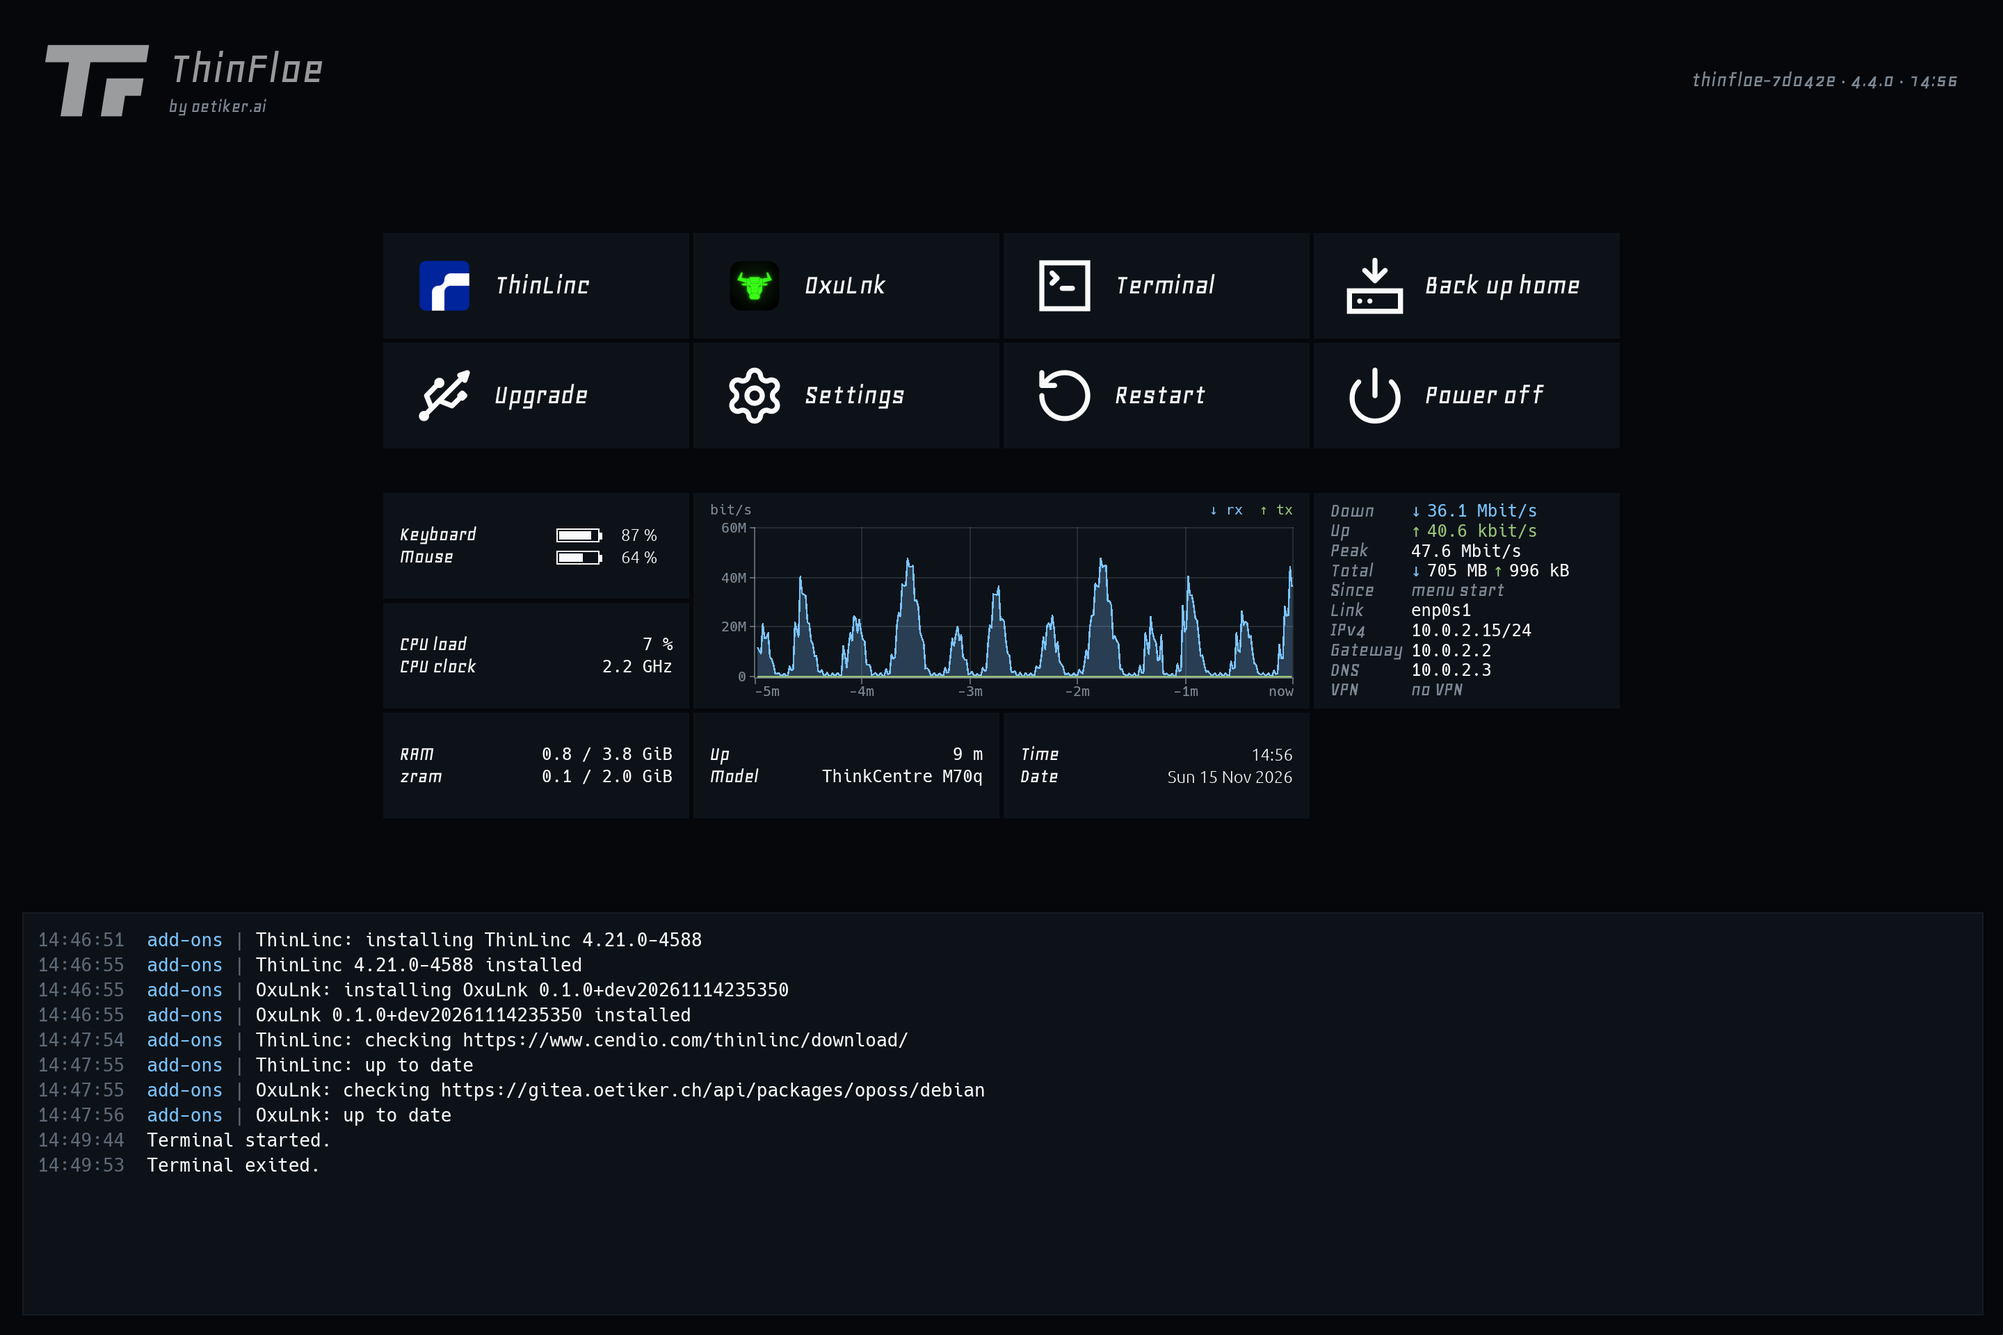
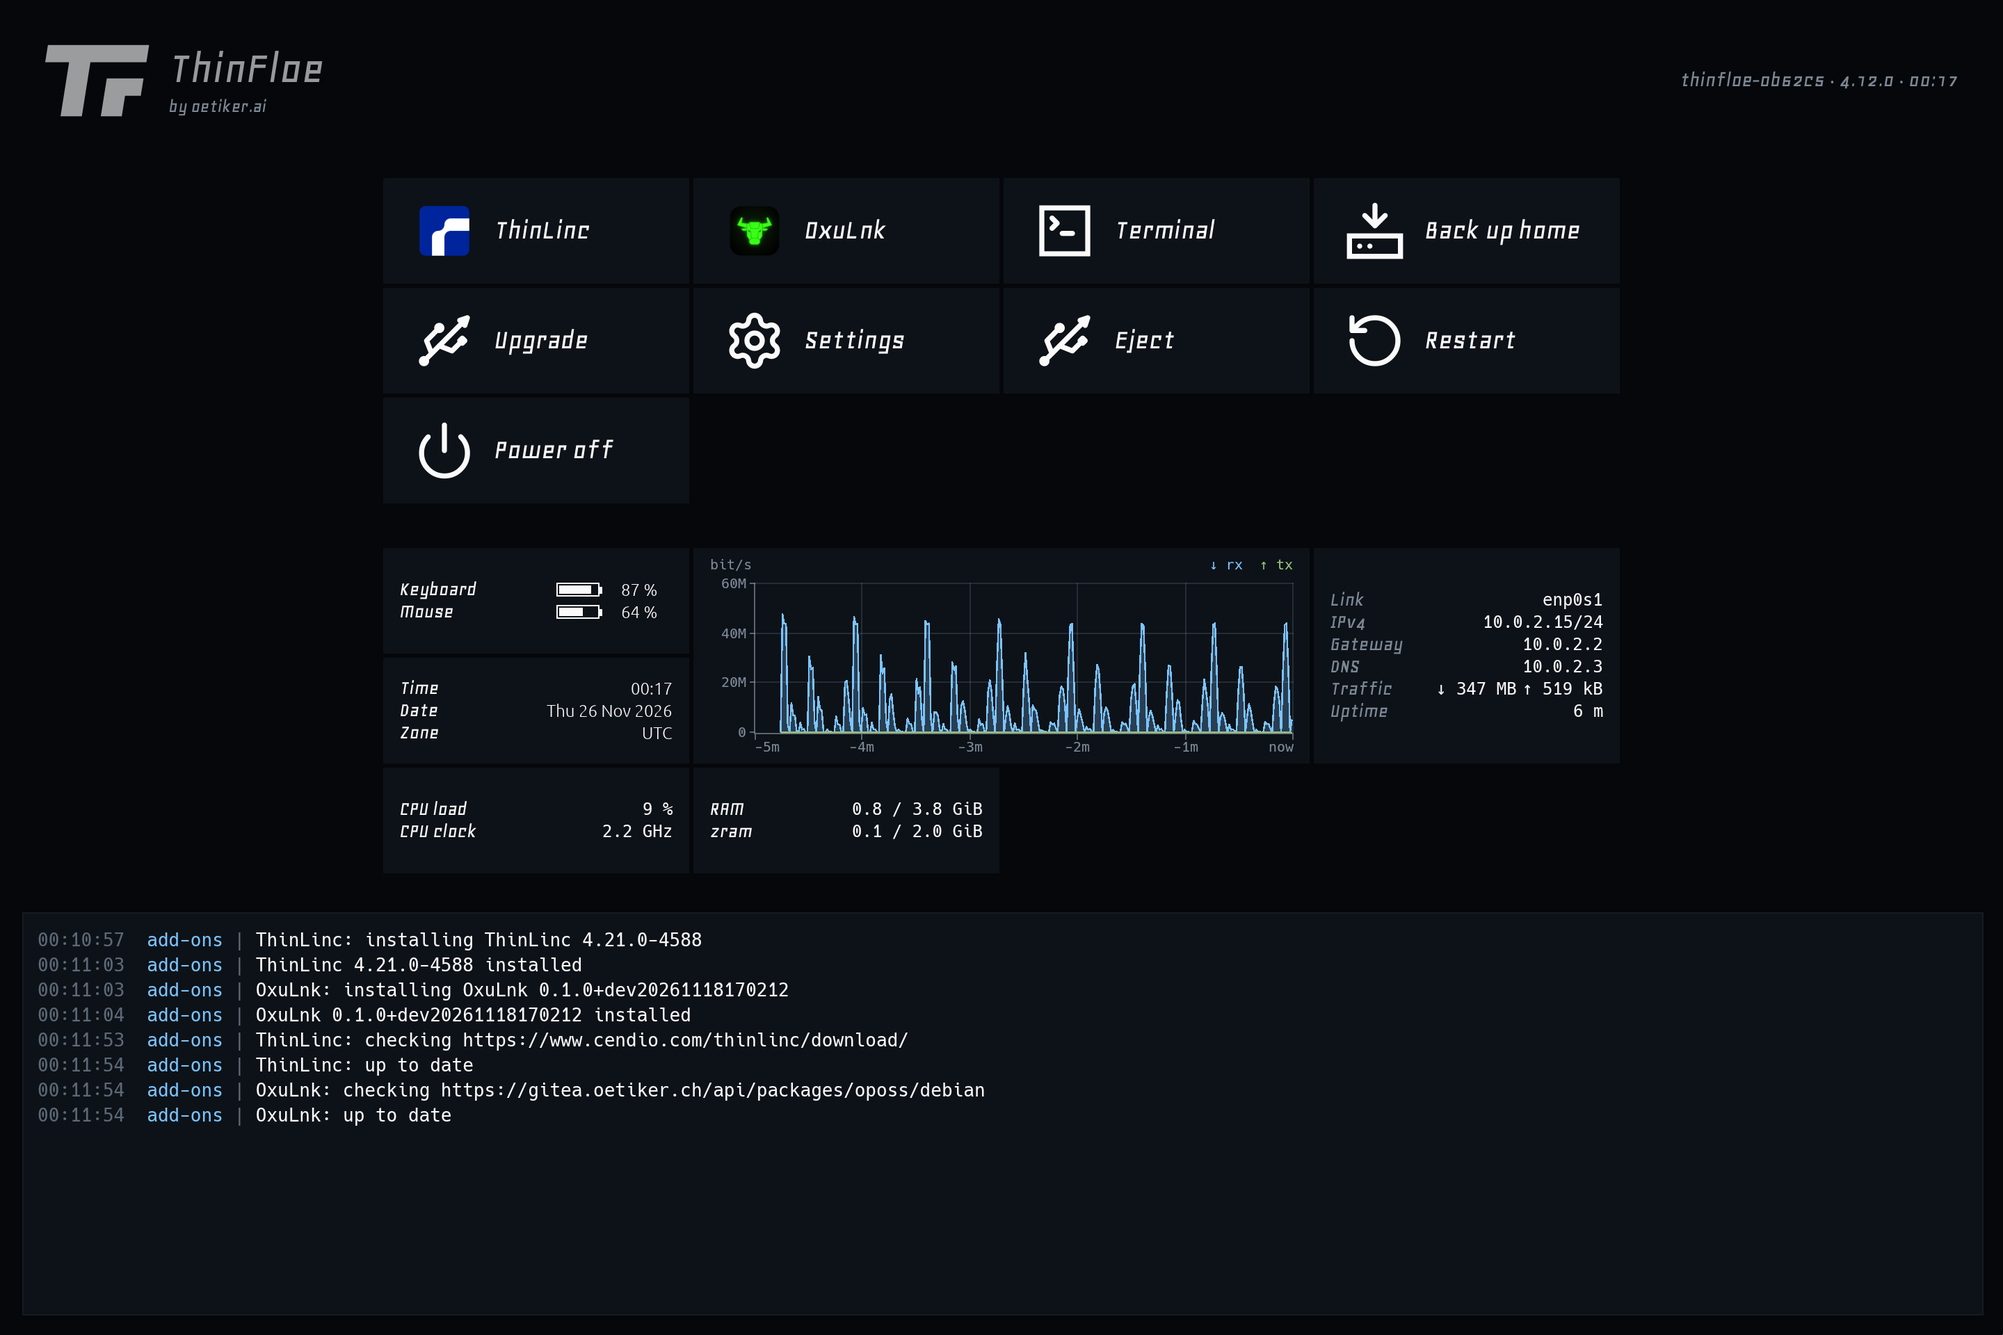
site: the page describes release 4.12.0 (#60)
* test(menu): the page's Screen picture shows two Deskflow computers

Since 4.8.0 the Screen tab places computers attached with Deskflow
beside the monitors. shot_page_pictures now stages the two clients of
the Deskflow tests (pc left of HDMI-A-1, mac right of DP-1), so the
web page's Screen picture shows them in the arrangement.

* site: pictures of release 4.12.0

The menu, Packages, Keyboard, Sound and Status pictures come from the
released 4.12.0 stick image in the VM, with ThinLinc and OxuLnk
installed and a virtual USB stick (PHOTOS) plugged in, so the menu
shows the Eject tile. Sound is new; "Set the volume on this machine" is
on, so the Keyboard picture shows its twin switch on too, with the
layout list closed. Network and Screen come from shot_page_pictures.
README.md names the USB stick, the Sound step and the encoder
commands; the shot test runs with -j2.

* site: the page describes release 4.12.0

What you get has four new cards: sticks and cards under /media/tfuser
with the Eject tile, FloeDrop, Deskflow, and the volume and brightness
keys. Settings gets a sixth tab, Sound; Keyboard loses "New in 4.4.0"
and names the key switches; Screen names the Deskflow computers;
Network the time zone and FloeDrop. The menu alt texts list the nine
tiles and the status area of the new picture. The download is the
491 MB of the 4.12.0 asset; the RAM figure stays (0.8 GiB idle with
add-ons in the VM, inside the range).

* ci(pages): upload and deploy in two jobs
[…]

diff --git a/site/index.html b/site/index.html
@@ -57,7 +57,7 @@ if (/[?&]still\b/.test(location.search)) document.documentElement.classList.add(
           <picture>
             <source srcset="img/menu.webp" type="image/webp">
             <img src="img/menu.png" width="2880" height="1920"
-                 alt="The ThinFloe menu: tiles for ThinLinc, OxuLnk, Terminal, Back up home, Upgrade, Settings, Restart and Power off, the status area and the log.">
+                 alt="The ThinFloe menu: tiles for ThinLinc, OxuLnk, Terminal, Back up home, Upgrade, Settings, Eject, Restart and Power off, the status area and the log.">
           </picture>
           <video id="boot" autoplay muted loop playsinline preload="auto" poster="img/boot-poster.webp" width="1440" height="960"
                  aria-label="ThinFloe boots: the logo above a bar that fills while the steps of the boot are named, then the menu.">
@@ -82,11 +82,11 @@ if (/[?&]still\b/.test(location.search)) document.documentElement.classList.add(
     <p class="lede">One menu. Tiles start the remote desktop, a terminal or a home backup; below them the machine reports on itself, and the log says what the system did.</p>
     <figure class="shot">
       <img src="img/menu.webp" width="2880" height="1920" loading="lazy"
-           alt="The ThinFloe menu on a 3:2 screen. Eight tiles: ThinLinc, OxuLnk, Terminal, Back up home, Upgrade, Settings, Restart, Power off. Below them the status area: batteries of keyboard and mouse, a network traffic graph, network details, CPU load, memory, uptime and model, time and date. At the bottom the log, with lines of the add-on checks.">
+           alt="The ThinFloe menu on a 3:2 screen. Nine tiles: ThinLinc, OxuLnk, Terminal, Back up home, Upgrade, Settings, Eject (a USB stick is plugged in), Restart, Power off. Below them the status area: batteries of keyboard and mouse, time, date and time zone, a network traffic graph, the connection with address, gateway, DNS, traffic and uptime, CPU load and memory. At the bottom the log, with lines of the add-on installs and checks.">
     </figure>
     <dl class="parts">
-      <div><dt>Tiles</dt><dd>ThinLinc, OxuLnk, a terminal, a home backup, upgrades, settings. Add your own with one small file.</dd></div>
-      <div><dt>Status area</dt><dd>The machine reports on itself: batteries of keyboard and mouse, network traffic, addresses, load, memory.</dd></div>
+      <div><dt>Tiles</dt><dd>ThinLinc, OxuLnk, a terminal, a home backup, upgrades, settings, and Eject while a stick or card is plugged in. Add your own with one small file.</dd></div>
+      <div><dt>Status area</dt><dd>The machine reports on itself: batteries of keyboard and mouse, network traffic, the connection, load, memory, the time.</dd></div>
       <div><dt>Log</dt><dd>What the system did and when, such as the daily look for new add-on versions.</dd></div>
     </dl>
   </div>
@@ -95,19 +95,21 @@ if (/[?&]still\b/.test(location.search)) document.documentElement.classList.add(
 <section class="band" id="settings">
   <div class="wrap">
     <h2>Settings on the screen</h2>
-    <p class="lede">WiFi and wired network, monitors, keyboard and the status area are set in the menu. A change applies at once and travels with the home.</p>
+    <p class="lede">WiFi and wired network, monitors, keyboard, sound and the status area are set in the menu. A change applies at once and travels with the home.</p>
 
     <div class="tabs">
       <input type="radio" name="st" id="st-packages" checked>
       <input type="radio" name="st" id="st-network">
       <input type="radio" name="st" id="st-screen">
       <input type="radio" name="st" id="st-keyboard">
+      <input type="radio" name="st" id="st-sound">
       <input type="radio" name="st" id="st-status">
       <div class="tabbar">
         <label for="st-packages">Packages</label>
         <label for="st-network">Network</label>
         <label for="st-screen">Screen</label>
         <label for="st-keyboard">Keyboard</label>
+        <label for="st-sound">Sound</label>
         <label for="st-status">Status</label>
       </div>
       <figure class="panel p-packages">
@@ -118,17 +120,22 @@ if (/[?&]still\b/.test(location.search)) document.documentElement.classList.add(
       <figure class="panel p-network">
         <img src="img/settings-network.webp" width="1872" height="858" loading="lazy"
              alt="The Network tab: the wired connection with a fixed address and gateway, and two saved WiFi networks, one of them hidden.">
-        <figcaption><b>Network</b>Wired with DHCP or a fixed address, the WiFi networks this machine knows, and the DNS servers.</figcaption>
+        <figcaption><b>Network</b>Wired with DHCP or a fixed address, the WiFi networks this machine knows, the DNS servers, the time zone and FloeDrop.</figcaption>
       </figure>
       <figure class="panel p-screen">
         <img src="img/settings-screen.webp" width="1872" height="858" loading="lazy"
-             alt="The Screen tab: two monitors side by side, the right one selected and showing the menu, with its resolution and rotation.">
-        <figcaption><b>Screen</b>Place the monitors, set resolution and rotation, choose which one shows the menu and when the screen turns off.</figcaption>
+             alt="The Screen tab: the monitors HDMI-A-1 and DP-1 side by side, DP-1 showing the menu, with the computers pc on the left and mac on the right, attached with Deskflow. Below them the list of monitors with resolution and an On switch each.">
+        <figcaption><b>Screen</b>Place the monitors, set resolution and rotation, choose which one shows the menu and when the screen turns off. Computers attached with Deskflow sit beside the monitors.</figcaption>
       </figure>
       <figure class="panel p-keyboard">
         <img src="img/settings-keyboard.webp" width="1872" height="858" loading="lazy"
-             alt="The Keyboard tab with the list of layouts open: Dari, Dhivehi, Dutch, Dzongkha and several English layouts. Below it Variant, CapsLock acts as Ctrl, Compose key and a field to try the keys.">
-        <figcaption><b>Keyboard</b>New in 4.4.0. Layout and variant, CapsLock as Ctrl, the Compose key, and a field to try them in.</figcaption>
+             alt="The Keyboard tab: Layout English (US) and Variant Default; CapsLock acts as Ctrl, Num Lock on at start and Volume keys control this machine switched on, Brightness keys control the monitors off; Compose key Right Alt.">
+        <figcaption><b>Keyboard</b>Layout and variant, CapsLock as Ctrl, Num Lock at start, the Compose key, and a field to try them in. Two switches give the volume and brightness keys to this machine.</figcaption>
+      </figure>
+      <figure class="panel p-sound">
+        <img src="img/settings-sound.webp" width="1872" height="858" loading="lazy"
+             alt="The Sound tab: Set the volume on this machine switched on, the volume slider at 64 %, Mute off.">
+        <figcaption><b>Sound</b>A volume slider and a mute switch, for keyboards without volume keys. With the switch off, the remote session sets the loudness.</figcaption>
       </figure>
       <figure class="panel p-status">
         <img src="img/settings-status.webp" width="1872" height="858" loading="lazy"
@@ -168,12 +175,32 @@ if (/[?&]still\b/.test(location.search)) document.documentElement.classList.add(
       <li>
         <svg viewBox="0 0 24 24" aria-hidden="true"><path d="M9.671 4.136a2.34 2.34 0 0 1 4.659 0 2.34 2.34 0 0 0 3.319 1.915 2.34 2.34 0 0 1 2.33 4.033 2.34 2.34 0 0 0 0 3.831 2.34 2.34 0 0 1-2.33 4.033 2.34 2.34 0 0 0-3.319 1.915 2.34 2.34 0 0 1-4.659 0 2.34 2.34 0 0 0-3.32-1.915 2.34 2.34 0 0 1-2.33-4.033 2.34 2.34 0 0 0 0-3.831A2.34 2.34 0 0 1 6.35 6.051a2.34 2.34 0 0 0 3.319-1.915"/><circle cx="12" cy="12" r="3"/></svg>
         <h3>Settings on the screen</h3>
-        <p>WiFi and wired network, keyboard layout, monitors and the status area are set in the menu. A change applies at once and travels with the home.</p>
+        <p>WiFi and wired network, keyboard layout, monitors, sound and the status area are set in the menu. A change applies at once and travels with the home.</p>
       </li>
       <li>
         <svg viewBox="0 0 24 24" aria-hidden="true"><rect width="7" height="7" x="14" y="3" rx="1"/><path d="M10 21V8a1 1 0 0 0-1-1H4a1 1 0 0 0-1 1v12a1 1 0 0 0 1 1h12a1 1 0 0 0 1-1v-5a1 1 0 0 0-1-1H3"/></svg>
         <h3>Add-ons you tick</h3>
         <p>ThinLinc and OxuLnk are not in the image. Tick one and ThinFloe fetches it from its source, keeps it on the stick and looks for a new version every day.</p>
+      </li>
+      <li>
+        <svg viewBox="0 0 24 24" aria-hidden="true"><path d="M10 16h.01"/><path d="M2.212 11.577a2 2 0 0 0-.212.896V18a2 2 0 0 0 2 2h16a2 2 0 0 0 2-2v-5.527a2 2 0 0 0-.212-.896L18.55 5.11A2 2 0 0 0 16.76 4H7.24a2 2 0 0 0-1.79 1.11z"/><path d="M21.946 12.013H2.054"/><path d="M6 16h.01"/></svg>
+        <h3>Sticks and cards open by themselves</h3>
+        <p>A USB stick or SD card appears under /media/tfuser, where the folder sharing of ThinLinc and OxuLnk reaches it. An Eject tile says when it is safe to pull it.</p>
+      </li>
+      <li>
+        <svg viewBox="0 0 24 24" aria-hidden="true"><rect width="7" height="12" x="2" y="6" rx="1"/><path d="M13 8.32a7.43 7.43 0 0 1 0 7.36"/><path d="M16.46 6.21a11.76 11.76 0 0 1 0 11.58"/><path d="M19.91 4.1a15.91 15.91 0 0 1 .01 15.8"/></svg>
+        <h3>FloeDrop: files with iPhones</h3>
+        <p>Send files to iPhones nearby over AirDrop and receive them, through one folder. It needs a spare WiFi card that supports AirDrop; sending also needs Bluetooth.</p>
+      </li>
+      <li>
+        <svg viewBox="0 0 24 24" aria-hidden="true"><path d="M4.037 4.688a.495.495 0 0 1 .651-.651l16 6.5a.5.5 0 0 1-.063.947l-6.124 1.58a2 2 0 0 0-1.438 1.435l-1.579 6.126a.5.5 0 0 1-.947.063z"/></svg>
+        <h3>One keyboard for more computers</h3>
+        <p>ThinFloe's keyboard and mouse drive the computers beside it that run Deskflow. Push the pointer past the edge of the screen; copied text goes along.</p>
+      </li>
+      <li>
+        <svg viewBox="0 0 24 24" aria-hidden="true"><path d="M11 4.702a.705.705 0 0 0-1.203-.498L6.413 7.587A1.4 1.4 0 0 1 5.416 8H3a1 1 0 0 0-1 1v6a1 1 0 0 0 1 1h2.416a1.4 1.4 0 0 1 .997.413l3.383 3.384A.705.705 0 0 0 11 19.298z"/><path d="M16 9a5 5 0 0 1 0 6"/><path d="M19.364 18.364a9 9 0 0 0 0-12.728"/></svg>
+        <h3>Volume and brightness keys</h3>
+        <p>Switched on in Settings, the volume keys set the speakers and the brightness keys the monitors, with a note on the screen. The Sound tab has a slider for keyboards without them.</p>
       </li>
       <li>
         <svg viewBox="0 0 24 24" aria-hidden="true"><path d="M20 13c0 5-3.5 7.5-7.66 8.95a1 1 0 0 1-.67-.01C7.5 20.5 4 18 4 13V6a1 1 0 0 1 1-1c2 0 4.5-1.2 6.24-2.72a1.17 1.17 0 0 1 1.52 0C14.51 3.81 17 5 19 5a1 1 0 0 1 1 1z"/></svg>
@@ -188,7 +215,7 @@ if (/[?&]still\b/.test(location.search)) document.documentElement.classList.add(
     </ul>
 
     <dl class="status">
-      <div><dt>Download</dt><dd>493 MB</dd></div>
+      <div><dt>Download</dt><dd>491 MB</dd></div>
       <div><dt>RAM in use</dt><dd>0.7 to 1.3 GiB</dd></div>
       <div><dt>Boot</dt><dd>UEFI and BIOS</dd></div>
       <div><dt>Licence</dt><dd>MIT</dd></div>

diff --git a/site/style.css b/site/style.css
@@ -225,7 +225,7 @@ img, video, canvas { max-width: 100%; display: block; }
 .tabs > input { position: absolute; opacity: 0; pointer-events: none; }
 .tabbar {
   display: grid;
-  grid-template-columns: repeat(5, 1fr);
+  grid-template-columns: repeat(6, 1fr);
   gap: var(--gap);
   padding: var(--gap);
   background: #1c2026;
@@ -249,16 +249,19 @@ img, video, canvas { max-width: 100%; display: block; }
 #st-network:checked ~ .tabbar label[for="st-network"],
 #st-screen:checked ~ .tabbar label[for="st-screen"],
 #st-keyboard:checked ~ .tabbar label[for="st-keyboard"],
+#st-sound:checked ~ .tabbar label[for="st-sound"],
 #st-status:checked ~ .tabbar label[for="st-status"] { color: #fff; background: #2a2f36; border-color: #4a525c; }
 #st-packages:focus-visible ~ .tabbar label[for="st-packages"],
 #st-network:focus-visible ~ .tabbar label[for="st-network"],
 #st-screen:focus-visible ~ .tabbar label[for="st-screen"],
 #st-keyboard:focus-visible ~ .tabbar label[for="st-keyboard"],
+#st-sound:focus-visible ~ .tabbar label[for="st-sound"],
 #st-status:focus-visible ~ .tabbar label[for="st-status"] { outline: 2px solid var(--ice); outline-offset: 2px; }
 #st-packages:checked ~ .p-packages,
 #st-network:checked ~ .p-network,
 #st-screen:checked ~ .p-screen,
 #st-keyboard:checked ~ .p-keyboard,
+#st-sound:checked ~ .p-sound,
 #st-status:checked ~ .p-status { display: block; }
 
 /* The tile grid, as in the menu: square, 3px apart. */

diff --git a/src/thinfloe-menu/src/ui.rs b/src/thinfloe-menu/src/ui.rs
@@ -8676,7 +8676,10 @@ mod tests {
         let mut two = monitor_dialog("DP-1");
         two.event(MonEvent::MenuHere, Instant::now());
         two.event(MonEvent::CloseDialog, Instant::now());
-        shot(&monitor_settings(two), "page-screen.ppm", (2880, 1920), 2.0);
+        // Two computers attached with Deskflow beside the monitors.
+        let mut screen = monitor_settings(two);
+        screen.deskflow = two_clients();
+        shot(&screen, "page-screen.ppm", (2880, 1920), 2.0);
         let mut menu = open_settings();
         menu.settings_tab = crate::settings::SettingsTab::Network;
         menu.network = two_networks();

diff --git a/site/README.md b/site/README.md
@@ -37,8 +37,8 @@ itself is not written) and gives the machine the demo model name
    OxuLnk (the VM needs the network), then click Restart so the home is
    saved to the stick. Stop the VM with `qmp.py … quit`.
 2. **Still pictures** (`img/menu.webp`, `img/menu.png`, `img/settings-packages.webp`,
-   `-keyboard`, `-status`). Boot at 2880x1920, open the Terminal tile and
-   run a script as root that
+   `-keyboard`, `-sound`, `-status`). Boot at 2880x1920, open the Terminal tile and
+   run a script as root (under `systemd-run`, so it outlives the session) that
    - stops `thinfloe-peripheral-battery.timer` and writes two demo lines to
      `/run/thinfloe/peripherals/battery` every 45 s (`MX Mechanical`, 87,
      keyboard; `MX Anywhere 3S`, 64, mouse),
@@ -51,18 +51,27 @@ itself is not written) and gives the machine the demo model name
      layout drawn twice as sharp.
 
    Then `sudo systemctl restart getty@tty1`: the new session reads the new
-   size. Wait five minutes for the graph, park the pointer in the corner
+   size. For the Eject tile, plug a small USB stick into the VM: a raw file
+   with a FAT file system (`truncate -s 256M $W/photos.img`, `mkfs.vfat -n
+   PHOTOS $W/photos.img`), added over QMP with `blockdev-add` (driver
+   `raw`, node name `photos`) and `device_add` (driver `usb-storage`,
+   drive `photos`). In Settings, Sound, switch on "Set the volume on this
+   machine" and set the slider to about two thirds; the Keyboard tab then
+   shows "Volume keys control this machine" on too. Wait five minutes for
+   the graph, park the pointer in the corner
    (`qmp.py … move 2879 1919 2880 1920`) and take the shots. The menu
    picture is the whole screen; the Settings pictures are the crop
-   `1872x858+504+432` (the Keyboard one has the layout list open and its
-   last 6 rows are background). WebP lossless; `menu.png` is the same
-   picture with 256 colours.
+   `1872x858+504+432` (for 4.12.0 the Keyboard one has the layout list
+   closed, so the key switches show). WebP lossless (`cwebp -lossless -z 9`);
+   `menu.png` is the same picture with 256 colours (`convert -dither None
+   -colors 256 PNG8:`, then `oxipng`).
 3. **Network and Screen tabs** (`img/settings-network.webp`, `-screen`).
-   The VM has no WiFi and one monitor, so these two come from the menu's
-   shot test with staged data, at the same size, scale and crop:
+   The VM has no WiFi, one monitor and no Deskflow computer, so these two
+   come from the menu's shot test with staged data (two monitors and two
+   attached computers on the Screen tab), at the same size, scale and crop:
 
        cd src/thinfloe-menu
-       TF_SHOT_DIR=$W cargo test -j4 --lib shot_page -- --ignored
+       TF_SHOT_DIR=$W cargo test -j2 --lib shot_page -- --ignored
 
 4. **Boot movie** (`boot.webm`, `boot.mp4`, `img/boot-poster.webp`). Boot
    at 1440x960 and record from power-on:
